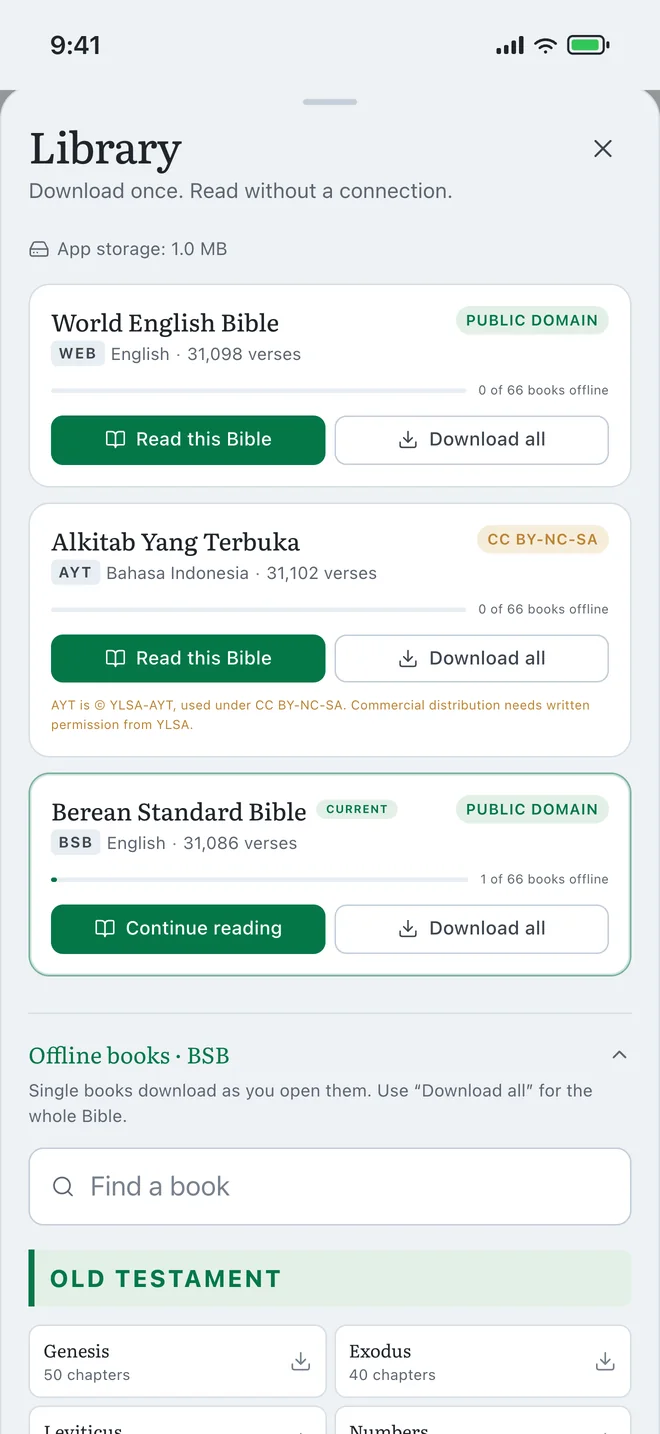
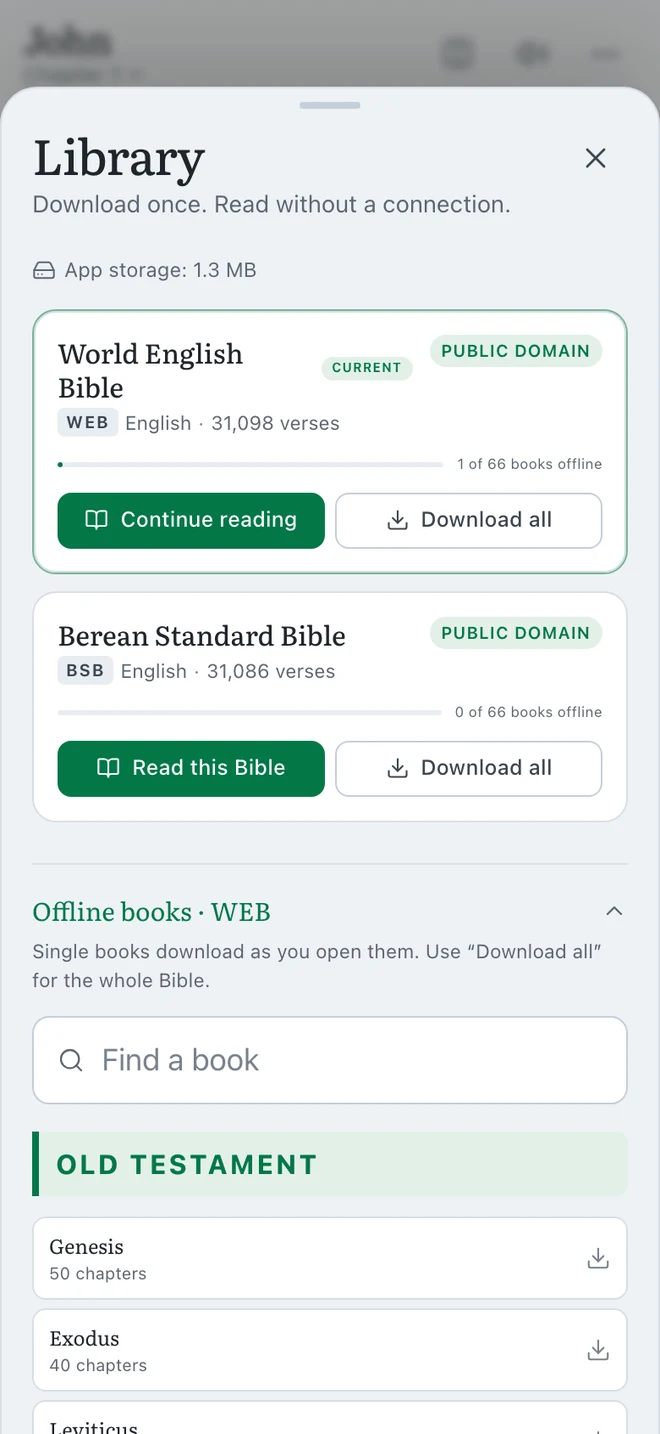
Remove AYT from release site and update screenshots

diff --git a/index.html b/index.html
@@ -4,7 +4,7 @@
 <meta charset="utf-8" />
 <meta name="viewport" content="width=device-width, initial-scale=1" />
 <title>Quiet Bible Reader — Read the Bible in peace</title>
-<meta name="description" content="A local-first Bible reader for Singapore and Indonesia. WEB, BSB and AYT, offline, with no account, no ads and no feed." />
+<meta name="description" content="A local-first Bible reader for Singapore and Indonesia. WEB and BSB, offline, with no account, no ads and no feed." />
 <meta name="theme-color" content="#eef1f5" />
 <link rel="icon" href="assets/icon-192.png" sizes="192x192" />
 <link rel="apple-touch-icon" href="assets/icon-192.png" />
@@ -66,8 +66,8 @@
     <div class="features">
       <article class="card">
         <span class="icon" aria-hidden="true"><svg viewBox="0 0 24 24"><path d="M4 5.5A2.5 2.5 0 0 1 6.5 3H20v18H6.5A2.5 2.5 0 0 1 4 18.5v-13Z"/><path d="M8 7h8M8 11h6"/></svg></span>
-        <h3>Three translations</h3>
-        <p>WEB and BSB in English, AYT in Indonesian. Read one book or download the whole Bible.</p>
+        <h3>Two translations</h3>
+        <p>WEB and BSB in English, with an Indonesian interface. Read one book or download the whole Bible.</p>
       </article>
       <article class="card">
         <span class="icon" aria-hidden="true"><svg viewBox="0 0 24 24"><path d="M12 3v12m0 0 4-4m-4 4-4-4"/><path d="M4 17v2a2 2 0 0 0 2 2h12a2 2 0 0 0 2-2v-2"/></svg></span>
@@ -111,12 +111,12 @@
     <div class="section-head">
       <p class="eyebrow">THE APP</p>
       <h2>A page that feels like paper, not a feed.</h2>
-      <p class="section-lede">Light and dark, three translations, a real book picker and settings that stay out of the way.</p>
+      <p class="section-lede">Light and dark, two translations, a real book picker and settings that stay out of the way.</p>
     </div>
     <div class="screens">
       <figure><img src="assets/reader.webp" width="660" height="1434" alt="Reader in Paper theme" loading="lazy" /><figcaption>A quiet page</figcaption></figure>
       <figure><img src="assets/reader-night.webp" width="660" height="1434" alt="Reader at night" loading="lazy" /><figcaption>Night reading</figcaption></figure>
-      <figure><img src="assets/book-picker.webp" width="660" height="1434" alt="Book picker" loading="lazy" /><figcaption>Three translations</figcaption></figure>
+      <figure><img src="assets/book-picker.webp" width="660" height="1434" alt="Book picker" loading="lazy" /><figcaption>Two translations</figcaption></figure>
       <figure><img src="assets/search.webp" width="660" height="1434" alt="Bible search" loading="lazy" /><figcaption>Search the text</figcaption></figure>
       <figure><img src="assets/settings.webp" width="660" height="1434" alt="Appearance settings" loading="lazy" /><figcaption>Make it yours</figcaption></figure>
       <figure><img src="assets/library.webp" width="660" height="1434" alt="Offline library" loading="lazy" /><figcaption>Offline by book</figcaption></figure>
@@ -151,7 +151,7 @@
 
   <section class="section licensing">
     <h2>Translations &amp; licensing</h2>
-    <p><strong>WEB</strong> (World English Bible) and <strong>BSB</strong> (Berean Standard Bible) are public domain. <strong>AYT</strong> (Alkitab Yang Terbuka) is © 2011–2024 YLSA-AYT and is used for personal, non-commercial reading under CC BY-NC-SA. Commercial distribution of an app containing AYT requires written permission from YLSA.</p>
+    <p><strong>WEB</strong> (World English Bible) and <strong>BSB</strong> (Berean Standard Bible) are public domain.</p>
     <p class="small">Quiet Bible Reader is not affiliated with any church, ministry or publisher. Scripture is shown for personal reading only.</p>
   </section>
 

diff --git a/terms.html b/terms.html
@@ -42,13 +42,13 @@
   </div>
 
   <h2>1. What this app is</h2>
-  <p>Quiet Bible Reader is a local-first Bible reading app for personal use. Bible text is provided in the World English Bible (WEB), the Berean Standard Bible (BSB) and Alkitab Yang Terbuka (AYT). The app does not provide pastoral advice, doctrine, counselling or emergency services.</p>
+  <p>Quiet Bible Reader is a local-first Bible reading app for personal use. Bible text is provided in the World English Bible (WEB) and the Berean Standard Bible (BSB). The app does not provide pastoral advice, doctrine, counselling or emergency services.</p>
 
   <h2>2. Your personal licence</h2>
   <p>Subject to these terms and the scripture licences below, you may install and use the app on devices you control for personal, non-commercial reading. You may make notes, highlights, bookmarks and personal backups. You may not:</p>
   <ul>
-    <li>redistribute the app or the AYT text as a separate Bible product;</li>
-    <li>sell, sublicense or commercially exploit the AYT text;</li>
+    <li>redistribute the app or the scripture text as a separate Bible product;</li>
+    <li>sell, sublicense or commercially exploit the scripture text;</li>
     <li>use the app for public outreach, broadcasting, fundraising or donation collection;</li>
     <li>remove copyright, licence or attribution notices;</li>
     <li>use the app in a way that breaks applicable law.</li>
@@ -57,7 +57,6 @@
   <h2>3. Scripture licences</h2>
   <p><strong>World English Bible (WEB)</strong> is in the public domain and may be freely copied and distributed, provided the name “World English Bible” is used faithfully for faithful copies.</p>
   <p><strong>Berean Standard Bible (BSB)</strong> is in the public domain as of 2023 and may be freely copied and distributed.</p>
-  <p><strong>Alkitab Yang Terbuka (AYT)</strong> is © 2011–2024 YLSA-AYT and is used under the Creative Commons Attribution-NonCommercial-ShareAlike 4.0 licence. The AYT is included for personal, non-commercial reading. Any commercial distribution of an app containing AYT requires written permission from YLSA. Nothing in these terms grants rights beyond the AYT licence.</p>
 
   <h2>4. Quiet Pro</h2>
   <p>Quiet Pro is an optional one-time purchase that unlocks additional reading tools. It is not a subscription. It does not lock the Bible text or basic reading features. In the App Store version, purchases are processed by Apple and are subject to Apple’s terms; restore is handled through the App Store. In this prototype, the purchase is simulated and no payment is taken.</p>

diff --git a/support.html b/support.html
@@ -56,7 +56,7 @@ footer{border-top:1px solid var(--line);margin-top:48px;padding-top:20px;color:v
   </details>
   <details>
     <summary>Which translations are included?</summary>
-    <p>World English Bible (WEB) and Berean Standard Bible (BSB) in English, and Alkitab Yang Terbuka (AYT) in Indonesian. WEB and BSB are public domain. AYT is used for personal, non-commercial reading under CC BY-NC-SA.</p>
+    <p>World English Bible (WEB) and Berean Standard Bible (BSB) in English. Both are public domain.</p>
   </details>
   <details>
     <summary>Is my reading data uploaded?</summary>
@@ -74,10 +74,7 @@ footer{border-top:1px solid var(--line);margin-top:48px;padding-top:20px;color:v
     <summary>How do I delete my data?</summary>
     <p>Delete the app to remove its local library, bookmarks, highlights, notes and settings. Because nothing is stored on a server, there is no account to delete.</p>
   </details>
-  <details>
-    <summary>Why does AYT show a licence note?</summary>
-    <p>AYT is © 2011–2024 YLSA-AYT and is distributed under CC BY-NC-SA 4.0 for personal, non-commercial reading. The app does not sell or sublicense the AYT text. Commercial redistribution requires written permission from YLSA.</p>
-  </details>
+  
 
   <div class="links">
     <a href="privacy.html">Privacy policy</a>

diff --git a/privacy.html b/privacy.html
@@ -77,7 +77,6 @@
   <ul>
     <li><strong>World English Bible (WEB)</strong> — public domain, published by eBible.org.</li>
     <li><strong>Berean Standard Bible (BSB)</strong> — public domain since 2023, published by berean.bible.</li>
-    <li><strong>Alkitab Yang Terbuka (AYT)</strong> — © 2011–2024 YLSA-AYT, used under CC BY-NC-SA 4.0. Commercial distribution requires written permission from YLSA.</li>
   </ul>
 
   <h2>10. Changes</h2>
